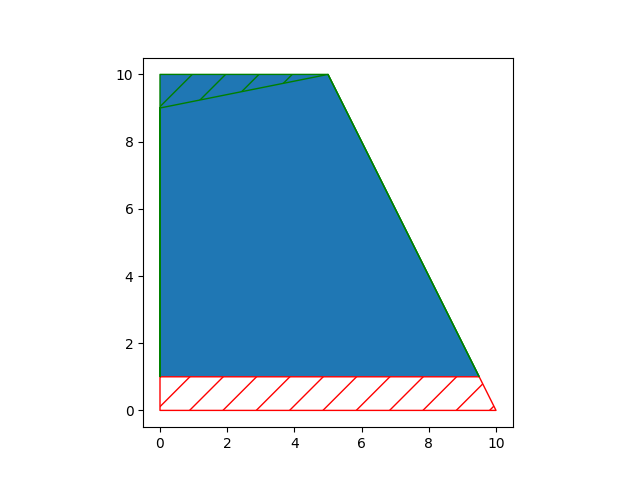
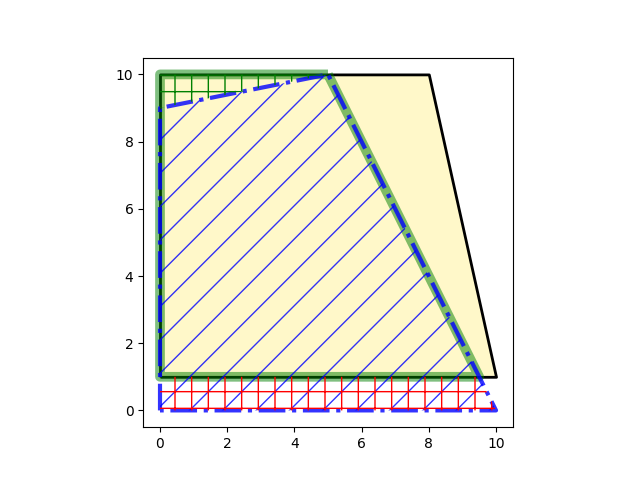
added thematic and reference geoms to show_results
added thematic and reference geoms to show_results

diff --git a/examples/__init__.py b/examples/__init__.py
@@ -1,21 +1,20 @@
+import logging
+
 import geopandas as gpd
 import matplotlib.pyplot as plt
 
 
-def show_results(results, results_diff_pos,results_diff_neg):
-    results_array = list(results.values())
-    results_diff_pos_array = list(results_diff_pos.values())
-    results_diff_neg_array = list(results_diff_neg.values())
-
-    results_geoseries = gpd.GeoSeries(results_array)
-    results_diff_pos_geoseries = gpd.GeoSeries(results_diff_pos_array)
-    ax1 = results_diff_pos_geoseries.plot(color='none', edgecolor='green', hatch="/", zorder=3)
-    results_diff_neg_geoseries = gpd.GeoSeries(results_diff_neg_array)
-    ax2 = results_diff_neg_geoseries.plot(ax =ax1,color='none', edgecolor='red', hatch="/", zorder=2)
-    results_geoseries.plot(ax=ax2, zorder=1)
-    plt.show()
+def show_results(results, results_diff_pos,results_diff_neg,thematic_dict, reference_dict):
+    try:
+        ax = gpd.GeoSeries(list(reference_dict.values())).plot(color='#FFF8C9',edgecolor='black',linewidth=2.0, zorder=1)
+        ax_thematic_dict = gpd.GeoSeries(list(thematic_dict.values())).plot(ax=ax, alpha=0.8,color='none',hatch="/", edgecolor='#0000FF',linewidth=3.0,linestyle='dashdot', zorder=3)
+        ax_result = gpd.GeoSeries(list(results.values())).plot(ax=ax,alpha=0.5,color='none',hatch=" ", edgecolor='green',linewidth=7.0, zorder=2)
+        ax_diff_pos = gpd.GeoSeries(list(results_diff_pos.values())).plot(ax=ax, color='none', edgecolor='green', hatch="+",linewidth=0.0, linestyle='dashdot', zorder=4)
+        ax_diff_neg = gpd.GeoSeries(list(results_diff_neg.values())).plot(ax=ax, color='none', edgecolor='red', hatch="+",linewidth=0.0, linestyle='dashdot', zorder=5)
+        plt.show()
+    except:
+        logging.error("show_results: Error while showing results")
     return
-
 
 def plot_diffs(series, results_diff):
     for key in results_diff:

diff --git a/examples/examples_aligner.py b/examples/examples_aligner.py
@@ -26,11 +26,11 @@ if __name__ == "__main__":
     # Example how to use the Aligner
     r, rd, rd_plus, rd_min, sd, si = aligner.process_dict_thematic(10, 3)
     aligner.export_results("output/")
-    show_results(r, rd_plus,rd_min)
+    show_results(r, rd_plus,rd_min,aligner.dict_thematic, aligner.dict_reference)
 
     r, rd, rd_plus, rd_min, sd, si = aligner.process_dict_thematic(6, 2)
     aligner.export_results("output/")
-    show_results(r, rd_plus,rd_min)
+    show_results(r, rd_plus,rd_min,aligner.dict_thematic, aligner.dict_reference)
     # for key in r:
     #     x.get_formula(r[key])
 
@@ -44,6 +44,6 @@ if __name__ == "__main__":
     # border will be used)
     r, rd, rd_plus, rd_min, sd, si = aligner.process_dict_thematic(30, 1, -1)
     aligner.export_results("output/")
-    show_results(r, rd_plus,rd_min)
+    show_results(r, rd_plus,rd_min,aligner.dict_thematic, aligner.dict_reference)
     # for key in r:
     #     x.get_formula(r[key])

diff --git a/examples/example_multi_to_single.py b/examples/example_multi_to_single.py
@@ -21,9 +21,8 @@ if __name__ == "__main__":
     x.load_reference_data_grb_actual(grb_type="gbg", partition=1000)
 
     r, rd, rd_plus, rd_min, sd, si = x.process_dict_thematic(2, 4)
-    x.name_thematic_id = "name"
     x.export_results("output/")
-    show_results(r, rd_plus,rd_min)
+    show_results(r, rd_plus,rd_min,x.dict_thematic, x.dict_reference)
 
     for key in r:
         print(key)
@@ -39,9 +38,8 @@ if __name__ == "__main__":
     x.load_reference_data_grb_actual(grb_type="gbg", partition=1000)
 
     r, rd, rd_plus, rd_min, sd, si = x.process_dict_thematic(5, 4)
-    x.name_thematic_id = "name"
     x.export_results("output/")
-    show_results(r, rd_plus,rd_min)
+    show_results(r, rd_plus, rd_min, x.dict_thematic, x.dict_reference)
 
     for key in r:
         print(key)

diff --git a/brdr/aligner.py b/brdr/aligner.py
@@ -94,7 +94,7 @@ class Aligner:
         # thematic
         thematic_input = None  # to save the initially loaded geojson
         # name of the identifier-field of the thematic data (id has to be unique)
-        name_thematic_id = "theme_identifier"
+        self.name_thematic_id = "theme_identifier"
         # dictionary to store all thematic geometries to handle
         self.dict_thematic = {}
 

diff --git a/examples/example_wanted_changes.py b/examples/example_wanted_changes.py
@@ -30,7 +30,7 @@ if __name__ == "__main__":
     # Example how to use the Aligner
     r, rd, rd_plus, rd_min, sd, si = x.process_dict_thematic(2, 4)
     x.export_results("output/")
-    show_results(r, rd_plus,rd_min)
+    show_results(r, rd_plus,rd_min, x.dict_thematic, x.dict_reference)
 
     # Possibility to get the descriptive formula of a thematic feature
     # for key in r:

diff --git a/docs/example_readme.py b/docs/example_readme.py
@@ -17,5 +17,5 @@ aligner.load_reference_data_dict(reference_dict)
 #EXECUTE THE ALIGNMENT
 r, rd, rd_plus, rd_min, sd, si = aligner.process_dict_thematic(relevant_distance=1)
 #SHOW RESULTING GEOMETRY AND CHANGES
-show_results(r, rd_plus,rd_min)
+show_results(r, rd_plus,rd_min,thematic_dict,reference_dict)
 

diff --git a/examples/example_combined_borders_adp_gbg.py b/examples/example_combined_borders_adp_gbg.py
@@ -33,7 +33,7 @@ if __name__ == "__main__":
 
     r, rd, rd_plus, rd_min, sd, si = x.process_dict_thematic(2, 4)
     x.export_results("output/")
-    show_results(r, rd_plus,rd_min)
+    show_results(r, rd_plus,rd_min,x.dict_thematic, x.dict_reference)
 
     for key in r:
         x.get_formula(r[key])

diff --git a/examples/example_aligner.py b/examples/example_aligner.py
@@ -49,4 +49,4 @@ if __name__ == "__main__":
     out = x.get_last_version_date(x.dict_thematic["1100"])
     print(out)
     x.export_results("output/")
-    show_results(r, rd_plus,rd_min)
+    show_results(r, rd_plus,rd_min,x.dict_thematic, x.dict_reference)

diff --git a/README.md b/README.md
@@ -42,9 +42,9 @@ The figure below shows:
 * Update-detection: Investigate the descriptive formulation before and after alignment to check for (automatic) alignment of geodata 
 * ...
 
-### qgis-script
-An implementation of `brdr` within a QGIS-script can be found at [GitHub-brdrQ](https://github.com/OnroerendErfgoed/brdrQ/).
-This script provides a User Interface to align thematic data to a reference layer, showing the results in the QGIS Table of Contents. 
+### QGIS-script
+An implementation of `brdr` for QGIS can be found at [GitHub-brdrQ](https://github.com/OnroerendErfgoed/brdrQ/).
+This QGIS- script provides a User Interface to align thematic data to a reference layer, showing the results in the QGIS Table of Contents. 
 
 ## Installation
 
@@ -83,12 +83,14 @@ aligner.load_reference_data_dict(reference_dict)
 #EXECUTE THE ALIGNMENT
 r, rd, rd_plus, rd_min, sd, si = aligner.process_dict_thematic(relevant_distance=1)
 #SHOW RESULTING GEOMETRY AND CHANGES
-show_results(r, rd_plus,rd_min)
+show_results(r, rd_plus,rd_min,thematic_dict,reference_dict)
 ```
 The resulting figure shows:
-* the resulting geometry (blue) 
-* the added zone (green)
-* the removed zone (red)
+* the reference polygon (yellow-black)
+* the original geometry (blue)
+* the resulting geometry (green line) 
+* the added zone (green squares)
+* the removed zone (red squares)
 <img src="docs/figures/basic_example.png" width="100%" />
 
 More examples can be found in [Examples](https://github.com/OnroerendErfgoed/brdr/tree/main/examples)
@@ -114,7 +116,7 @@ To use `brdr`, follow these steps:
   * Relevant intersections: relevant intersecting parts of the reference geometries
   * Relevant differences: relevant differences of the reference geometries
 
-## The  `brdr`-algorithm 
+## The `brdr`-algorithm 
 
 The algorithm for alignment is based on 2 main principles:
 
